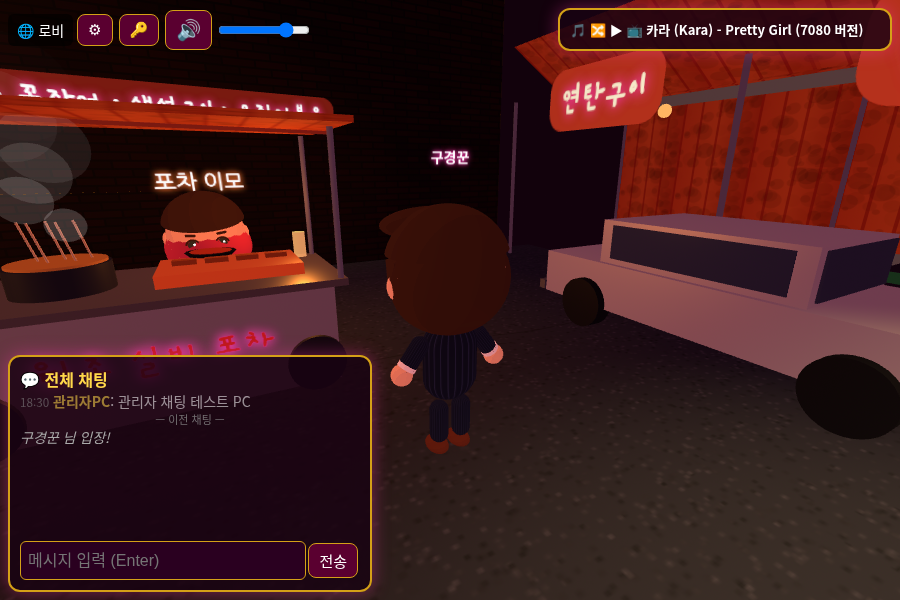
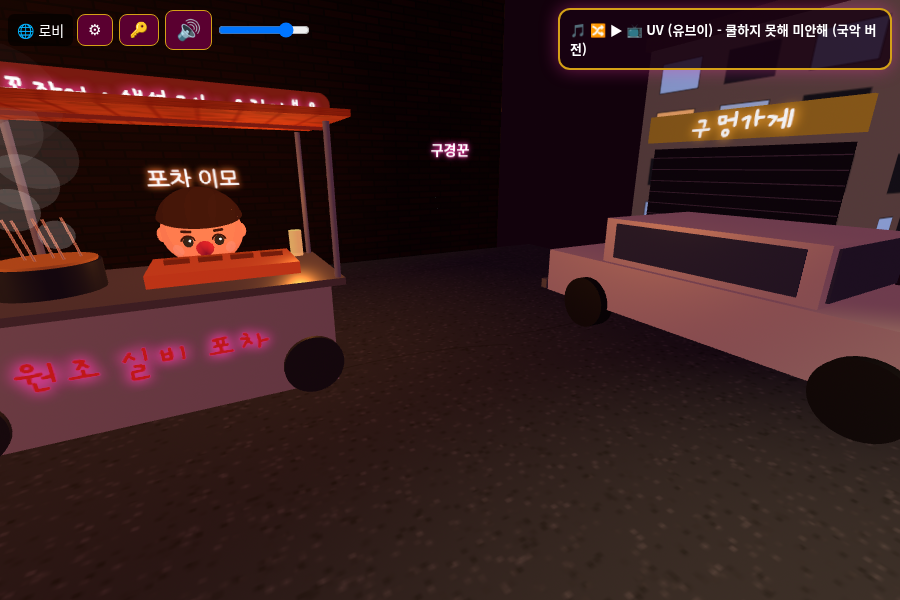
Pocha: tent only over dining area + open street, tent-painted self-service lettering, imo face visible; bar coasters; jump btn above action bar; uses ring on eat/drink buttons

diff --git a/public/world.js b/public/world.js
@@ -98,7 +98,7 @@ function buildBar(){
  const bt=['wine-red','wine-white','soda-bottle','wine-red','cocktail','glass-wine'];
  for(let s=0;s<3;s++){SHELF_EL.push(E('a-box',{position:`11.35 ${1.2+s*.85} ${Z}`,width:.4,height:.04,depth:8.6,material:'color:#c9a24a;metalness:.8'}));
   for(let k=0;k<12;k++)SHELF_EL.push(prop(bt[(k+s)%bt.length],{pos:[11.35,1.22+s*.85,Z-4+k*.72],scale:.5}));}
- for(let k=0;k<5;k++){const sx=X-1.1,sz=Z-3.5+k*1.4,el=prop('stoolBar',{pos:[sx,0,sz],scale:2.2,tint:'#8b0018'});el.dataset.seat='BAR-'+k;el.classList.add('seat');
+ for(let k=0;k<5;k++){const sx=X-1.1,sz=Z-3.5+k*1.4,el=prop('stoolBar',{pos:[sx,0,sz],scale:2.2,tint:'#8b0018'});el.dataset.seat='BAR-'+k;el.classList.add('seat');E('a-cylinder',{position:`9.68 1.258 ${sz}`,radius:.13,height:.012,'segments-radial':20,material:'color:#2a1608;roughness:.9'});E('a-ring',{position:`9.68 1.265 ${sz}`,rotation:'-90 0 0','radius-inner':.1,'radius-outer':.115,material:'color:#c9a24a;metalness:.7;shader:flat'});
   SEATS.push({id:'BAR-'+k,table:'BAR',x:sx,z:sz,y:.52,yaw:Math.PI/2,el,stand:[sx-.8,sz]});} // 바 스툴도 좌석 (바 쪽을 봄)
  E('a-entity',{position:'11.4 4.3 '+Z,rotation:'0 -90 0',ktext:'value:BAR;color:#fff;glow:#00e5ff;size:90;width:2;font:Georgia,serif'});
  window.BAR_ZONE={x0:10.55,x1:11.4,z0:-1.6,z1:6.75};
@@ -417,24 +417,21 @@ function hand(v,o={}){return `value:${v};color:${o.c||'#fff'};glow:${o.g||''};bg
  E('a-sphere',{position:'-30 45 90',radius:4,material:'shader:flat;color:#fff6d0'});
  const bld=(x,z,w,h,d,ry,col,sign)=>{const b=E('a-box',{position:`${x} ${h/2} ${z}`,rotation:`0 ${ry} 0`,width:w,height:h,depth:d,material:'roughness:1'});{const ft=TEX.facade(w,h,col);texMesh(b,ft,{emissiveMap:ft,emissive:new THREE.Color('#ffffff'),emissiveIntensity:.55});}
   if(sign){const s=E('a-entity',{position:`${x} ${sign[1]} ${z}`,rotation:`0 ${ry} 0`});E('a-entity',{position:`0 0 ${d/2+.06}`,ktext:hand(sign[0],{c:'#fff',g:sign[2],bg:'#1a1a1a',s:70,w:sign[3]||2.6})},s);}};
- // 건물 대신 이어진 포장마차 천막 줄
- const tentU=(x,z,w,d,ry,lbl)=>{const g=E('a-entity',{position:`${x} 0 ${z}`,rotation:`0 ${ry} 0`});const e=3.2,r=4.2,sl=Math.hypot(d/2,r-e),an=Math.atan2(r-e,d/2)*57.3;
-  [-1,1].forEach(s=>texMesh(E('a-plane',{position:`0 ${(e+r)/2} ${s*d/4}`,rotation:`${s<0?-90+an:-90-an} 0 0`,width:w+.1,height:sl+.15,material:'side:double;roughness:1'},g),TEX.tarp()));
-  texMesh(E('a-plane',{position:`0 ${e/2+.3} ${-d/2}`,width:w,height:e-.6,material:'side:double;roughness:1'},g),TEX.tarp());
-  [[-w/2,-d/2],[w/2,-d/2],[-w/2,d/2],[w/2,d/2]].forEach(([px,pz])=>E('a-cylinder',{position:`${px} ${e/2} ${pz}`,radius:.04,height:e,color:'#777'},g));
-  E('a-box',{position:`0 .38 ${-d/4}`,width:w*.6,height:.04,depth:.7,color:'#2a8a3a'},g);E('a-sphere',{position:`0 ${e-.3} 0`,radius:.12,material:'color:#ffe4a0;emissive:#ffb040;emissiveIntensity:1'},g);
-  if(lbl)E('a-entity',{position:`0 ${e-.15} ${d/2+.02}`,ktext:hand(lbl,{c:'#fff3d0',bg:'#b8321c',s:70,w:Math.min(w-.4,2.4)})},g);};
- [['-7',27,'원조포차'],['-1.5',27,'실내포차'],['4',27,'바다포차'],['9.5',27,'곰장어']].forEach(([x,z,l])=>tentU(+x,z,5.4,3.4,0,l));
- [[15,'연탄구이'],[19.6,'꼼장어'],[24.2,null]].forEach(([z,l])=>{tentU(13.6,z,4.6,3.4,-90,l);tentU(-13.6,z,4.6,3.4,90,l==='연탄구이'?'닭발':l);});
+ // 천막 뒤는 열린 거리: 인도 + 차선
+ texMesh(E('a-plane',{rotation:'-90 0 0',position:'0 .005 28',width:40,height:4,material:'roughness:1'}),TEX.asphalt());
+ E('a-box',{position:'0 .06 29.2',width:40,height:.12,depth:1.6,material:'color:#8a8680;roughness:1'});
+ for(let x=-16;x<=16;x+=3)E('a-plane',{rotation:'-90 0 0',position:`${x} .012 25.6`,width:1.4,height:.12,material:'shader:flat;color:#e8d070'});
  // 천막 (낡은 주황 방수포)
- const T={x0:-10,x1:0,z0:14,z1:22.3,e:4.5,r:5.6};window.TENT=T;const cx=(T.x0+T.x1)/2,cz=(T.z0+T.z1)/2,hw=(T.z1-T.z0)/2,sl=Math.hypot(hw,T.r-T.e);const ang=Math.atan2(T.r-T.e,hw)*57.3;
+ const T={x0:-10,x1:4.2,z0:14,z1:22.3,e:4.5,r:5.6};window.TENT=T;const cx=(T.x0+T.x1)/2,cz=(T.z0+T.z1)/2,hw=(T.z1-T.z0)/2,sl=Math.hypot(hw,T.r-T.e);const ang=Math.atan2(T.r-T.e,hw)*57.3;
  const tarp=()=>TEX.tarp();
  [-1,1].forEach(s=>texMesh(E('a-plane',{position:`${cx} ${(T.e+T.r)/2} ${cz+s*hw/2}`,rotation:`${-90+s*-ang*0+ (s<0?ang:-ang)} 0 0`,width:T.x1-T.x0+.4,height:sl+.2,material:'side:double;roughness:1'}),tarp()));
  texMesh(E('a-plane',{position:`${cx} ${T.e/2+.4} ${T.z1}`,rotation:'0 180 0',width:T.x1-T.x0,height:T.e-.8,material:'side:double;roughness:1;opacity:.92;transparent:true'}),tarp());
  texMesh(E('a-plane',{position:`${T.x0} ${T.e/2+.4} ${cz}`,rotation:'0 90 0',width:T.z1-T.z0,height:T.e-.8,material:'side:double;roughness:1;opacity:.92;transparent:true'}),tarp());
  [[T.x0,T.z0],[T.x1,T.z0],[T.x0,T.z1],[T.x1,T.z1],[cx,T.z0],[cx,T.z1]].forEach(([x,z])=>{E('a-cylinder',{position:`${x} ${T.e/2} ${z}`,radius:.04,height:T.e,'segments-radial':6,color:'#777'});OBSTACLES.push({x,z,r:.12});});
- E('a-entity',{position:`${cx} ${T.e-.15} ${T.z0+.02}`,rotation:'0 180 0',ktext:hand('포장마차',{c:'#fff3d0',bg:'#b8321c',s:90,w:2.6})});
- E('a-entity',{position:`${cx} ${T.e-.15} ${T.z0-.02}`,ktext:hand('포장마차',{c:'#fff3d0',bg:'#b8321c',s:90,w:2.6})});
+ // 앞 처마 차양 + 천막에 칠한 글씨
+ [-1,1].forEach(s=>texMesh(E('a-plane',{position:`${cx} ${T.e-.35} ${T.z0+s*.01}`,rotation:`0 ${s>0?180:0} 0`,width:T.x1-T.x0,height:.7,material:'side:double;roughness:1'}),TEX.tarp()));
+ [[cx-3.2,'포장마차',2.6,'#fff3d0'],[cx+2.6,'술, 안주는 셀프 입니다',4.2,'#fffbe0']].forEach(([x,t,w,c])=>{E('a-entity',{position:`${x} ${T.e-.35} ${T.z0-.03}`,rotation:'0 180 0',ktext:hand(t,{c,s:90,w})});E('a-entity',{position:`${x} ${T.e-.35} ${T.z0+.03}`,ktext:hand(t,{c,s:90,w})});});
+ E('a-entity',{position:`${cx} ${T.e/2+1.2} ${T.z1+.03}`,ktext:hand('술, 안주는 셀프 입니다',{c:'#fffbe0',s:90,w:4.2})});
  // 백열전구 줄 (비닐 전선)
  let bi=0;[[T.x0+.3,T.z0+2],[T.x0+.3,T.z1-2.2]].forEach(([x0,z])=>{for(let x=x0;x<T.x1;x+=1.2){const y=T.e+.15-Math.sin((x-x0)/(T.x1-x0)*Math.PI)*.25;
   E('a-sphere',{position:`${x} ${y} ${z}`,radius:.09,'segments-width':8,'segments-height':6,material:'color:#ffe4a0;emissive:#ffb040;emissiveIntensity:1'});E('a-cylinder',{position:`${x} ${y+.12} ${z}`,radius:.005,height:.2,color:'#222'});bi++;}});
@@ -541,17 +538,13 @@ window.WAITERS=[];
 (async function imo(){const C=window.COOK;const holder=E('a-entity',{position:`${C.x+.4} 0 ${C.z-1.05}`});
  const h=await makeHuman(holder,{outfit:'#d0607a',skin:'#e8b48e',gender:'f',style:'hanbok'});HUMANS.add(h);
  const c=h.chibi,T=c.torso;T.add(new THREE.Mesh(new THREE.BoxGeometry(.3,.42,.02),new THREE.MeshStandardMaterial({color:'#f4f0e6'})));T.children[T.children.length-1].position.set(0,.16,.15);
- const sc=new THREE.Mesh(new THREE.SphereGeometry(.34,16,10,0,Math.PI*2,0,Math.PI*.55),new THREE.MeshStandardMaterial({color:'#e23b4c'}));c.head.add(sc);sc.position.set(0,.13,0);sc.scale.set(1.08,1,1.08);
- const kn=new THREE.Mesh(new THREE.SphereGeometry(.07,8,6),sc.material);c.head.add(kn);kn.position.set(0,.18,-.3);
+ const sc=new THREE.Mesh(new THREE.SphereGeometry(.34,16,10,0,Math.PI*2,0,Math.PI*.3),new THREE.MeshStandardMaterial({color:'#e23b4c'}));c.head.add(sc);sc.position.set(0,.2,0);sc.scale.set(1.05,1,1.05);
+ const kn=new THREE.Mesh(new THREE.SphereGeometry(.07,8,6),sc.material);c.head.add(kn);kn.position.set(0,.22,.3);
  const pan=new THREE.Group();pan.add(new THREE.Mesh(new THREE.CylinderGeometry(.22,.14,.08,16),new THREE.MeshStandardMaterial({color:'#333',metalness:.8,roughness:.3})));
  const fd=new THREE.Mesh(new THREE.CylinderGeometry(.18,.18,.03,12),new THREE.MeshStandardMaterial({color:'#b8321c'}));fd.position.y=.03;pan.add(fd);
  const hdl=new THREE.Mesh(new THREE.BoxGeometry(.04,.03,.3),pan.children[0].material);hdl.position.set(0,0,-.3);pan.add(hdl);
- const SC=document.querySelector('a-scene');const pw=new THREE.Group();pw.position.set(C.x+.4,1.1,C.z-.45);pw.add(pan);SC.object3D.add(pw);
+ const SC=document.querySelector('a-scene');const pw=new THREE.Group();pw.position.set(C.x+.4,1.0,C.z-.3);pw.add(pan);SC.object3D.add(pw);
  E('a-entity',{position:'0 1.75 0',billboard:'',ktext:`value:포차 이모;color:#fff;glow:#ff7a30;size:36;width:1`},holder);
  h.play('Idle_Loop');h.after=(t,c)=>{const f=(t%2.4)/2.4;c.arms.forEach((a,i)=>{a.rotation.x=-1.1+(i?Math.sin(t*6)*.25:0);a.rotation.z=i?.25:-.25;});
   const flip=f>.8?Math.sin((f-.8)/.2*Math.PI):0;pan.position.y=flip*.06;pan.rotation.x=Math.sin(t*6)*.08;fd.position.y=.03+flip*.25;fd.rotation.x=flip*Math.PI;c.head.rotation.x=.25;};
  OBSTACLES.push({x:C.x+.4,z:C.z-1.05,r:.35});})();
-// 셀프 안내판
-(function(){const g=E('a-entity',{position:'2.4 0 17.2',rotation:'0 200 0'});E('a-box',{position:'0 1.05 0',width:.06,height:2.1,depth:.06,color:'#6b4a2a'},g);
- E('a-plane',{position:'0 1.75 .04',width:1.7,height:.75,material:'color:#f3e7c4;roughness:1;side:double'},g);
- E('a-entity',{position:'0 1.75 .06',ktext:hand('술, 안주는 셀프 입니다',{c:'#b01010',s:72,w:1.6})},g);OBSTACLES.push({x:2.4,z:17.2,r:.15});})();

diff --git a/public/app.js b/public/app.js
@@ -211,6 +211,8 @@ function nearTable(){const p=rig.object3D.position;let best=null,bd=1e9;for(cons
 socket.on('glasses',g=>{GLASSES=g||{};for(const k in GLASS_EL)if(GLASSES[k]!==GLASS_EL[k].kind){GLASS_EL[k].parent.remove(GLASS_EL[k]);delete GLASS_EL[k];}
  for(const k in GLASSES)if(!GLASS_EL[k]){const s=SEATS.find(q=>q.id===k);if(!s)continue;const g3=(GLASSES[k]==='cocktail'?cocktailGlass:rockGlass)(new THREE.Group());g3.kind=GLASSES[k];g3.position.set(9.68,1.3,s.z);g3.scale.setScalar(1.6);scene.object3D.add(g3);GLASS_EL[k]=g3;}refreshAct(true);});
 const SLOT=[[-.22,-.22],[.22,-.22],[-.22,.22],[.22,.22],[0,-.28],[0,.28],[-.28,0],[.28,0]];
+let TABLE_USES={};socket.on('tableUses',u=>{TABLE_USES=u||{};});
+function usesTxt(k){const t=myTable();const it=TABLE_ITEMS[t]||[],i=it.indexOf(k);const n=i<0?0:((TABLE_USES[t]||[])[i]||4);return n;}
 socket.on('table',t=>{TABLE_ITEMS=t||{};for(const k in TABLE_ITEMS){if(TABLE_EL[k])TABLE_EL[k].parent.remove(TABLE_EL[k]);const g=new THREE.Group(),c=(window.POCHA_TABLES||{})[k];if(!c)continue;g.position.set(c[0],c[2]||.7,c[1]);
  TABLE_ITEMS[k].forEach((it,i)=>{if(!it||!SLOT[i])return;const m=makeItem(it);m.position.set(SLOT[i][0],0,SLOT[i][1]);g.add(m);});scene.object3D.add(g);TABLE_EL[k]=g;}refreshAct(true);});
 socket.on('carry',({id,kind})=>{if(id===myId){myCarry=kind;const m=$('myAvatar');if(m._h)m._h.carry(kind);refreshAct(true);return;}const el=others[id]&&others[id].el;if(el&&el._h)el._h.carry(kind);});
@@ -220,7 +222,7 @@ function serve(kind){if(!inBarZone())return;const n=Date.now();if(n-(window._las
  const p=rig.object3D.position;socket.emit('serve',{x:p.x,z:p.z,kind});}
 window.serve=serve;window.drink=drink;
 function actions(){const A=[];if(mySeat){if(isBarSeat()){if(GLASSES[mySeat])A.push([GLASSES[mySeat]==='cocktail'?'🍸 칵테일':'🥃 위스키',()=>drink(GLASSES[mySeat]),'d-'+GLASSES[mySeat]]);}
-  else{for(const k of ['soju','beer'])if(canDrink(k))A.push([ITEM_NAME[k],()=>drink(k),'d-'+k]);const t=myTable();if(t&&myCarry)A.push(['🍽 테이블에 놓기',()=>socket.emit('place'),'place']);if(t)for(const k of ['dakbal','kkom','fish','squid'])if((TABLE_ITEMS[t]||[]).includes(k))A.push([ITEM_NAME[k]+' 먹기',()=>eat(k),'e-'+k]);}
+  else{for(const k of ['soju','beer'])if(canDrink(k))A.push([ITEM_NAME[k],()=>drink(k),'d-'+k,usesTxt(k)]);const t=myTable();if(t&&myCarry)A.push(['🍽 테이블에 놓기',()=>socket.emit('place'),'place']);if(t)for(const k of ['dakbal','kkom','fish','squid'])if((TABLE_ITEMS[t]||[]).includes(k))A.push([ITEM_NAME[k]+' 먹기',()=>eat(k),'e-'+k,usesTxt(k)]);}
   return A;}
  if(inBarZone()){A.push(['🍸 바텐더 서빙:',null,'lbl'],['🥃 위스키',()=>serve('whiskey'),'s-whiskey'],['🍸 칵테일',()=>serve('cocktail'),'s-cocktail']);return A;}
  if(!mySeat&&(window.WAITERS||[]).some(w=>w.near))A.push(['💝 후원하기',()=>window.open('https://toon.at/donate/errdaydrip','_blank','noopener'),'donate']);
@@ -229,8 +231,8 @@ function actions(){const A=[];if(mySeat){if(isBarSeat()){if(GLASSES[mySeat])A.pu
  if(near(window.COOK,2.2))for(const k of ['dakbal','kkom','fish','squid'])A.push([ITEM_NAME[k],()=>socket.emit('pickup',k),'p-'+k]);
  if(myCarry&&!A.length)A.push(['들고 있음: '+ITEM_NAME[myCarry],null,'lbl']);
  return A;}
-let actKey='';function refreshAct(force){const A=actions(),k=A.map(a=>a[2]+a[0]).join('|')+myCarry;if(!force&&k===actKey)return;actKey=k;const bar=$('actBar');bar.innerHTML='';bar.classList.toggle('hidden',!A.length);
- for(const [t,f,id] of A){const b=document.createElement(f?'button':'span');b.textContent=t;b.dataset.act=id;if(f)b.addEventListener('click',e=>{e.stopPropagation();f();});else b.className='lbl';bar.appendChild(b);}}
+let actKey='';function refreshAct(force){const A=actions(),k=A.map(a=>a[2]+a[0]+(a[3]||'')).join('|')+myCarry;if(!force&&k===actKey)return;actKey=k;const bar=$('actBar');bar.innerHTML='';bar.classList.toggle('hidden',!A.length);
+ for(const [t,f,id,n] of A){const b=document.createElement(f?'button':'span');b.textContent=t;if(n){const c=n>=3?'#3ee05a':n===2?'#ffd23a':'#ff3b3b';b.classList.add('uses');b.style.background=`linear-gradient(rgba(30,10,40,.9),rgba(30,10,40,.9)) padding-box,conic-gradient(${c} 0 ${n*25}%,#3a3a3a 0) border-box`;b.title=n+'/4';}b.dataset.act=id;if(f)b.addEventListener('click',e=>{e.stopPropagation();f();});else b.className='lbl';bar.appendChild(b);}}
 setInterval(()=>refreshAct(),200);
 // ---------- 공유 음악 (MP3 업로드 + 유튜브) ----------
 let music={playlist:[],index:-1,playing:false},offset=0,userGesture=false;const audio=$('audio');
@@ -280,3 +282,5 @@ $('file').onchange=async()=>{const f=$('file').files[0];if(!f)return;if(f.size>3
 $('ytForm').onsubmit=async e=>{e.preventDefault();const url=$('ytUrl').value.trim();if(!url)return;$('upMsg').textContent='유튜브 불러오는 중...';
  const r=await fetch('/youtube',{method:'POST',headers:{'Content-Type':'application/json','x-admin-token':adminToken},body:JSON.stringify({url,by:me.nick||'관리자'})});
  const j=await r.json();$('upMsg').textContent=r.ok?`${j.added}곡 추가!`:(j.error||'실패');adminFail(r);if(r.ok)$('ytUrl').value='';};
+// 점프 버튼: 오른쪽 끝, 액션바 바로 위
+setInterval(()=>{const j=document.getElementById('jumpBtn'),a=document.getElementById('actBar');if(!j)return;let top=innerHeight-70;if(a&&!a.classList.contains('hidden')&&a.offsetHeight){top=Math.min(top,a.getBoundingClientRect().top);}j.style.bottom=(innerHeight-top+10)+'px';},200);

diff --git a/server.js b/server.js
@@ -78,12 +78,12 @@ const glasses={};const glassPub=()=>{const o={};for(const k in glasses)o[k]=glas
 const DRINKS=['soju','beer','whiskey','cocktail'];
 const TABLES={Y1:[-7.6,16.4],Y2:[-3,16.4],Y3:[-7.6,20.2],Y4:[-3,20.2],Y5:[2.6,21.5],T1:[-7,-4,2.4],T2:[-7,2,2.4],T3:[-7,7.5,2.4],T4:[4.5,6,2.4],T5:[0,8.5,2.4],T6:[-2.5,3.5,2.4]};const tables={};for(const k in TABLES)tables[k]={items:[null,null,null,null],t:0};
 const PICK={soju:{x:-0.7,z:21.5,r:1.8},beer:{x:-0.7,z:21.5,r:1.8}};for(const f of ['dakbal','kkom','fish','squid'])PICK[f]={x:5.5,z:16.5,r:2.4};
-const tablePub=()=>{const o={};for(const k in tables)o[k]=tables[k].items.map(i=>i?i.k:null);return o;};
+const usesPub=()=>{const o={};for(const k in tables)o[k]=tables[k].items.map(i=>i?i.u:0);return o;};const tablePub=()=>{const o={};for(const k in tables)o[k]=tables[k].items.map(i=>i?i.k:null);return o;};
 const FOODS=['dakbal','kkom','fish','squid'],MAX_ITEMS=4,USES=4;
-function useItem(tb,kind){const t=tables[tb],i=t.items.findIndex(x=>x&&x.k===kind);if(i<0)return false;if(--t.items[i].u<=0)t.items[i]=null;t.t=Date.now();io.emit('table',tablePub());return true;}
+function useItem(tb,kind){const t=tables[tb],i=t.items.findIndex(x=>x&&x.k===kind);if(i<0)return false;if(--t.items[i].u<=0)t.items[i]=null;t.t=Date.now();(io.emit('tableUses',usesPub()),io.emit('table',tablePub()));return true;}
 const pochaTable=seat=>{const m=/^([YT]\d)-/.exec(seat||'');return m&&tables[m[1]]?m[1]:null;};
 function canDrink(seat,type){if(BAR_Z[seat]!==undefined)return !!glasses[seat]&&(glasses[seat].type||'whiskey')===type;if(type==='whiskey'||type==='cocktail')return false;const tb=pochaTable(seat);if(tb)return tables[tb].items.some(i=>i&&i.k===type);return false;}
-setInterval(()=>{const n=Date.now();let ch=false;for(const k in tables)if(tables[k].items.some(Boolean)&&n-tables[k].t>1200000){tables[k].items=[null,null,null,null];ch=true;}if(ch)io.emit('table',tablePub());},10000).unref();
+setInterval(()=>{const n=Date.now();let ch=false;for(const k in tables)if(tables[k].items.some(Boolean)&&n-tables[k].t>1200000){tables[k].items=[null,null,null,null];ch=true;}if(ch)(io.emit('tableUses',usesPub()),io.emit('table',tablePub()));},10000).unref();
 setInterval(()=>{const n=Date.now();let ch=false;for(const k in glasses)if(n-glasses[k].t>60000){delete glasses[k];ch=true;}if(ch)io.emit('glasses',glassPub());},2000).unref();
 io.on('connection',s=>{
  s.emit('init',{id:s.id,players:pub(),music:state()});s.emit('chatHistory',chatHist);
@@ -97,7 +97,7 @@ io.on('connection',s=>{
  s.on('move',m=>{const pl=players[s.id];if(!pl)return;pl.pos=m.pos;pl.rot=m.rot;pl.dance=(+m.dance|0)%4;s.broadcast.volatile.emit('move',{id:s.id,pos:m.pos,rot:m.rot,dance:pl.dance});});
  s.on('seat',seat=>{const pl=players[s.id];if(!pl)return;pl.seat=seat;io.emit('seat',{id:s.id,seat});});
  s.emit('glasses',glassPub());
- s.emit('table',tablePub());
+ s.emit('tableUses',usesPub());s.emit('table',tablePub());
  s.on('drink',type=>{const pl=players[s.id];if(!pl||!pl.seat||!DRINKS.includes(type))return;if(!canDrink(pl.seat,type))return;const n=Date.now();if(n-(pl.lastDrink||0)<2000)return;pl.lastDrink=n;
   if(BAR_Z[pl.seat]!==undefined){delete glasses[pl.seat];io.emit('glasses',glassPub());}const tb=pochaTable(pl.seat);if(tb)useItem(tb,type);io.emit('drink',{id:s.id,type});});
  s.on('eat',kind=>{const pl=players[s.id];if(!pl||!FOODS.includes(kind))return;const tb=pochaTable(pl.seat);if(!tb||!tables[tb].items.some(i=>i&&i.k===kind))return;const n=Date.now();if(n-(pl.lastEat||0)<2000)return;pl.lastEat=n;useItem(tb,kind);io.emit('eat',{id:s.id,kind});});
@@ -110,7 +110,7 @@ io.on('connection',s=>{
  s.on('pickup',kind=>{const pl=players[s.id];if(!pl||pl.seat)return;const src=PICK[kind];if(!src)return;const p=pl.pos||[0,0,0];if(Math.hypot(p[0]-src.x,p[2]-src.z)>src.r)return;
   const n=Date.now();if(n-(pl.lastAct||0)<500)return;pl.lastAct=n;pl.carry=kind;io.emit('carry',{id:s.id,kind});});
  s.on('place',()=>{const pl=players[s.id];if(!pl||!pl.carry)return;const p=pl.pos||[0,0,0];let best=pochaTable(pl.seat),bd=1e9;if(!best)for(const k in TABLES){const t=TABLES[k],d=Math.hypot(p[0]-t[0],p[2]-t[1]);if(d<(t[2]||1.9)&&d<bd){bd=d;best=k;}}
-  if(!best)return;const n=Date.now();if(n-(pl.lastAct||0)<500)return;pl.lastAct=n;const tb=tables[best];const fs=tb.items.indexOf(null);if(fs<0){s.emit('chat',{sys:true,text:'테이블이 꽉 찼어요 (최대 '+MAX_ITEMS+'개)'});return;}tb.items[fs]={k:pl.carry,u:USES};tb.t=n;pl.carry=null;io.emit('carry',{id:s.id,kind:null});io.emit('table',tablePub());});
+  if(!best)return;const n=Date.now();if(n-(pl.lastAct||0)<500)return;pl.lastAct=n;const tb=tables[best];const fs=tb.items.indexOf(null);if(fs<0){s.emit('chat',{sys:true,text:'테이블이 꽉 찼어요 (최대 '+MAX_ITEMS+'개)'});return;}tb.items[fs]={k:pl.carry,u:USES};tb.t=n;pl.carry=null;io.emit('carry',{id:s.id,kind:null});(io.emit('tableUses',usesPub()),io.emit('table',tablePub()));});
  s.on('chat',text=>{const pl=players[s.id];if(!pl)return;text=String(text).slice(0,200);if(!text.trim())return;text=cleanText(text);
   const t=Date.now();chatHist.push({nick:pl.nick,text,t});if(chatHist.length>50)chatHist.shift();io.emit('chat',{id:s.id,nick:pl.nick,text,t});});
  s.on('duration',d=>{const t=music.playlist[d&&d.index];const sec=+(d&&d.sec);if(!t||!(sec>1&&sec<36000))return;const k=t.type==='yt'?t.videoId:t.id;if(durations[k])return;durations[k]=sec;broadcastMusic();});

diff --git a/public/style.css b/public/style.css
@@ -44,5 +44,6 @@ button:disabled{opacity:.5}.sel{background:#b0005a}.big{width:100%;padding:13px;
 #actBar{position:fixed;right:12px;bottom:12px;display:flex;flex-wrap:wrap;justify-content:flex-end;gap:8px;max-width:60vw;z-index:21;pointer-events:auto}#actBar.hidden{display:none}#actBar button,#actBar .lbl{font-size:16px;padding:8px 14px;border-radius:22px;border:2px solid #ffd84a;background:rgba(30,10,40,.85);color:#fff;touch-action:manipulation}#actBar .lbl{border-color:transparent;background:rgba(0,0,0,.5);font-size:14px}
 @media (max-width:700px),(pointer:coarse){#actBar{right:10px;bottom:70px;flex-direction:column;align-items:flex-end;max-width:45vw}#actBar button{font-size:14px;padding:7px 11px}}
 
-#jumpBtn{position:fixed;left:150px;bottom:90px;width:64px;height:64px;border-radius:50%;background:rgba(255,60,172,.35);border:2px solid rgba(255,216,74,.7);color:#fff;font-size:22px;line-height:1;text-align:center;padding-top:10px;box-sizing:border-box;display:none;touch-action:none;pointer-events:auto;z-index:20;user-select:none}#jumpBtn small{font-size:11px}
+#jumpBtn{position:fixed;right:12px;bottom:90px;width:64px;height:64px;border-radius:50%;background:rgba(255,60,172,.35);border:2px solid rgba(255,216,74,.7);color:#fff;font-size:22px;line-height:1;text-align:center;padding-top:10px;box-sizing:border-box;display:none;touch-action:none;pointer-events:auto;z-index:20;user-select:none}#jumpBtn small{font-size:11px}
 @media (max-width:700px),(pointer:coarse){#jumpBtn{display:block}#hud.showChat #jumpBtn,#hud.showMusic #jumpBtn{display:none}}
+#actBar button.uses{border:4px solid transparent}

diff --git a/tests/layout.shot.js b/tests/layout.shot.js
@@ -1,0 +1,8 @@
+const p=require('puppeteer-core');const W=ms=>new Promise(r=>setTimeout(r,ms));const D='/workspace/errday-7080-night/';
+(async()=>{const b=await p.launch({executablePath:'/usr/bin/google-chrome',args:['--no-sandbox','--use-gl=swiftshader','--enable-unsafe-swiftshader']});
+ const pg=await b.newPage();pg.on('pageerror',e=>console.log('ERR',e.message));await pg.setViewport({width:900,height:600});await pg.goto('http://localhost:8080');await pg.waitForFunction(()=>!document.getElementById('enter').disabled,{timeout:90000});
+ await pg.evaluate(()=>{document.querySelector('#nick,input[type=text]').value='구경꾼';});await pg.click('#enter');await W(4000);await pg.addStyleTag({content:'#chat{display:none!important}'});
+ const set=(a)=>pg.evaluate(a=>{rig.object3D.position.set(a[0],0,a[1]);myYaw=a[2];camGoal=null;camYaw=a[3];camPitch=a[4];camDist=a[5];rig.object3D.traverse(o=>{if(o.isMesh)o.visible=false;});},a);
+ await set([0,26.5,0,0.15,.55,3.5]);await W(1500);await pg.screenshot({path:D+'pocha_layout.png'});
+ await set([7.2,18.4,Math.PI,-0.5,.3,3]);await W(1500);await pg.screenshot({path:D+'screenshot_imo.png'});
+ await set([-3,19.5,Math.PI,0,-0.25,3]);await W(1500);await pg.screenshot({path:D+'tent_letter.png'});await b.close();})();

diff --git a/tests/bars.shot.js b/tests/bars.shot.js
@@ -1,0 +1,7 @@
+const p=require('puppeteer-core');const W=ms=>new Promise(r=>setTimeout(r,ms));const D='/workspace/errday-7080-night/';
+(async()=>{const b=await p.launch({executablePath:'/usr/bin/google-chrome',args:['--no-sandbox','--use-gl=swiftshader','--enable-unsafe-swiftshader']});
+ const pg=await b.newPage();pg.on('pageerror',e=>console.log('ERR',e.message));await pg.setViewport({width:900,height:600});await pg.goto('http://localhost:8080');await pg.waitForFunction(()=>!document.getElementById('enter').disabled,{timeout:90000});
+ await pg.evaluate(()=>{document.querySelector('#nick,input[type=text]').value='바구경';});await pg.click('#enter');await W(4000);await pg.addStyleTag({content:'#chat{display:none!important}'});
+ await pg.evaluate(()=>{socket.listeners('tableUses')[0]({Y4:[4,3,2,1]});socket.listeners('table')[0]({Y4:['soju','beer','dakbal','squid']});
+  sit(SEATS.find(q=>q.id==='Y4-0'));socket.listeners('tableUses')[0]({Y4:[4,3,2,1]});socket.listeners('table')[0]({Y4:['soju','beer','dakbal','squid']});});await W(1500);
+ await pg.screenshot({path:D+'item_bars.png'});await b.close();})();

diff --git a/tests/coaster.shot.js b/tests/coaster.shot.js
@@ -1,0 +1,7 @@
+const p=require('puppeteer-core');const W=ms=>new Promise(r=>setTimeout(r,ms));const D='/workspace/errday-7080-night/';
+(async()=>{const b=await p.launch({executablePath:'/usr/bin/google-chrome',args:['--no-sandbox','--use-gl=swiftshader','--enable-unsafe-swiftshader']});
+ const pg=await b.newPage();await pg.setViewport({width:900,height:600});await pg.goto('http://localhost:8080');await pg.waitForFunction(()=>!document.getElementById('enter').disabled,{timeout:90000});
+ await pg.evaluate(()=>{document.querySelector('#nick,input[type=text]').value='바손님';});await pg.click('#enter');await W(4000);await pg.addStyleTag({content:'#chat{display:none!important}'});
+ await pg.evaluate(()=>{socket.emit('serve',{type:'whiskey'});});
+ await pg.evaluate(()=>{rig.object3D.position.set(8.2,0,3);myYaw=0;camGoal=null;camYaw=-Math.PI/2;camPitch=.6;camDist=3.5;rig.object3D.traverse(o=>{if(o.isMesh)o.visible=false;});});await W(1500);
+ await pg.screenshot({path:D+'bar_coasters.png'});await b.close();})();
